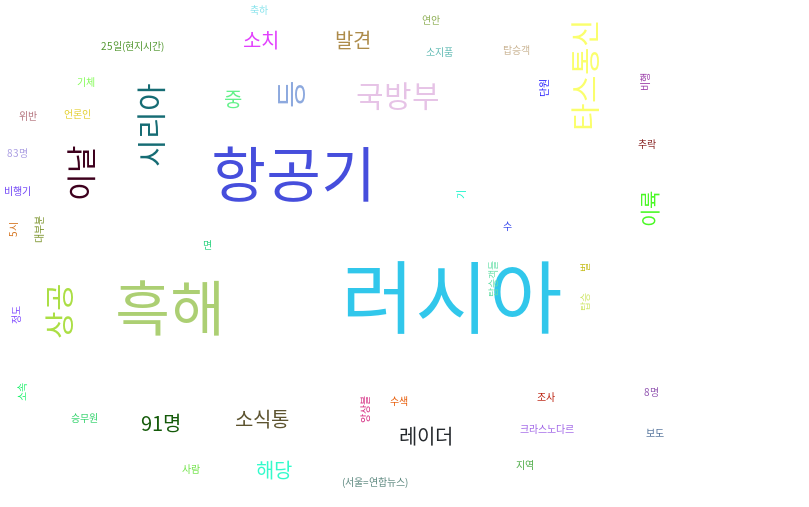
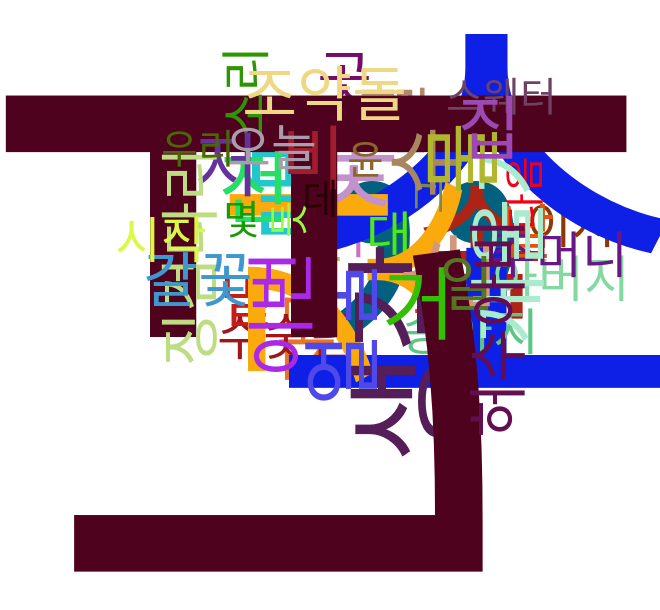
^^

diff --git a/test.py b/test.py
@@ -2,7 +2,22 @@
 
 from konlpy.tag import Kkma
 from konlpy.utils import pprint
-
+from konlpy.tag import Twitter
+from konlpy.tag import Hannanum
+from konlpy.tag import Komoran
 
 kkma = Kkma()
-pprint(kkma.sentences(u'네, 안녕하세요. 반갑습니다.'))
+pprint(kkma.pos(u'kkma: 백설공주는 독사과를 먹고 죽었다.'))
+
+
+twitter = Twitter()
+pprint(twitter.pos(u'twitter: 백설공주는 독사과를 먹고 죽었다', norm=True, stem=True))
+
+#mecab = Mecab()
+#pprint(kkma.pos(u'mecab: 백설공주는 독사과를 먹고 죽었다.'))
+
+
+hannanum = Hannanum()
+pprint(kkma.pos(u'hannanum: 백설공주는 독사과를 먹고 죽었다.'))
+
+

diff --git a/DrawWordCloud.py b/DrawWordCloud.py
@@ -50,7 +50,7 @@ def draw_cloud(tags, filename, fontname='Noto Sans CJK', size=(800, 600)):
 
 #bill_num = '1904880'
 #text = get_bill_text(bill_num)
-bill_num = 'newspaper'
+bill_num = '소나기.txt'
 text = read_text(bill_num)
 tags = get_tags(text)
 print(tags)
